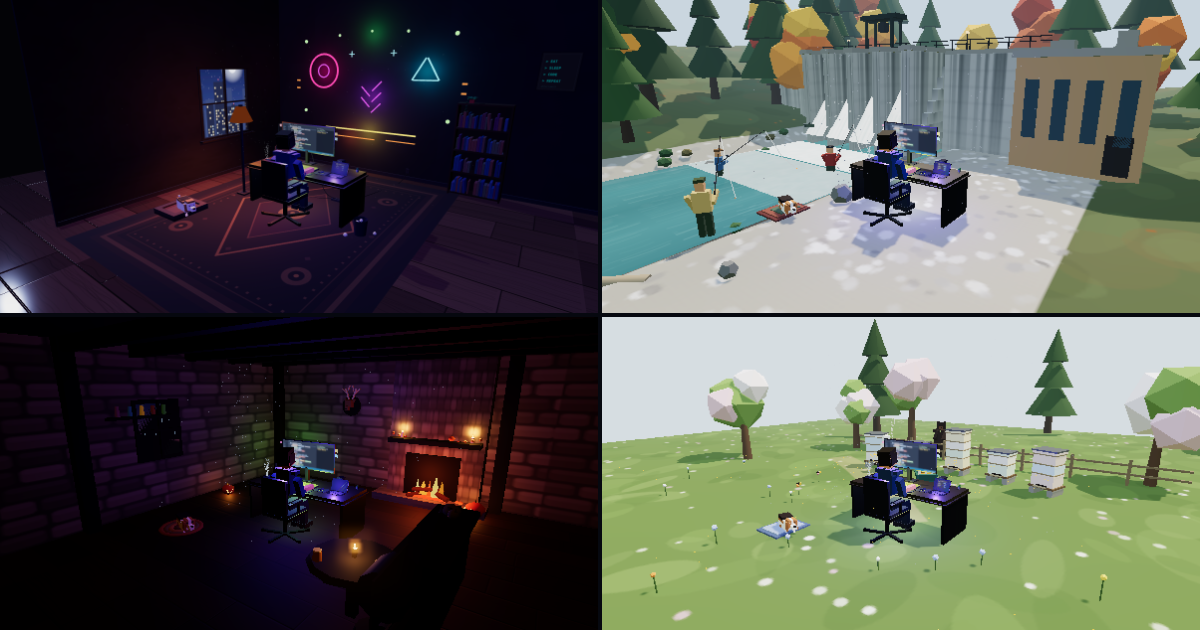
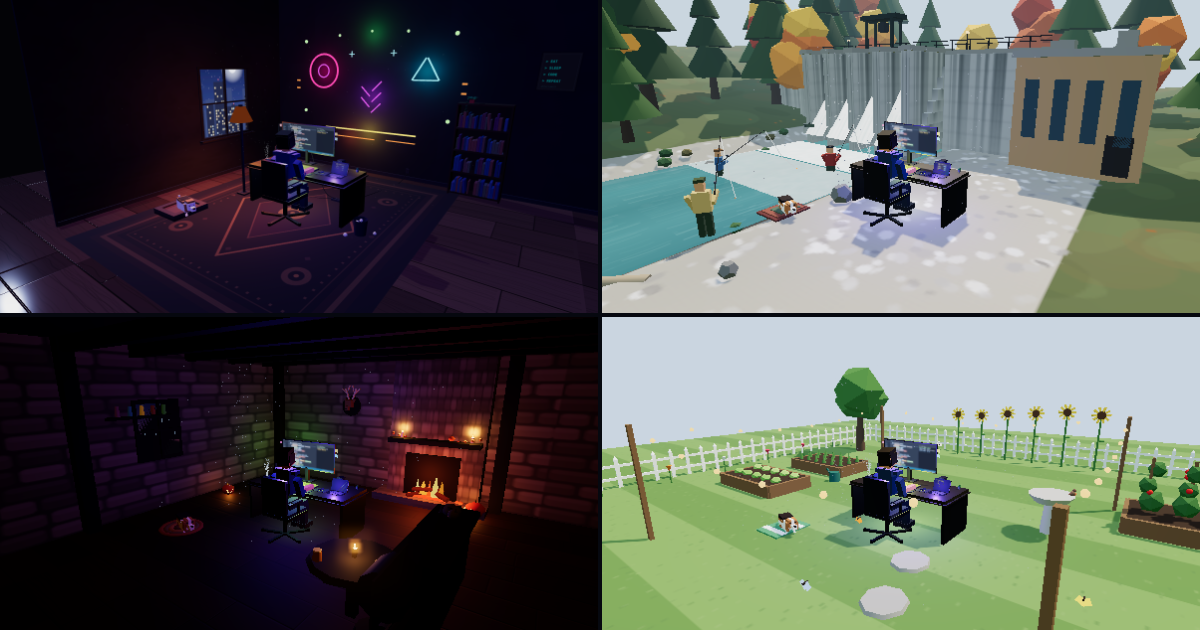
Garden critters + og collage refresh
- A robin perches on the birdbath rim, scanning the yard and dipping
  to drink every few seconds, tail flicking
- A rabbit runs a lettuce heist on a loop: creeps from a fence hole,
  nibbles at the beds — and Clark runs security, breaking off whatever
  he's doing to close in. Get close enough and the rabbit bolts for
  the hole ears-back while Clark does his proud wiggle (hearts, aroo)
- If Clark's asleep, the rabbit feasts in peace
- og collage: garden replaces the apiary tile

diff --git a/index.html b/index.html
@@ -5293,6 +5293,66 @@
             });
         }
 
+        // ── A robin on the birdbath rim ──
+        const robinGrp = new THREE.Group();
+        robinGrp.position.set(2.64, 0.76, -1.2);
+        robinGrp.rotation.y = -0.8;
+        addTarget.add(robinGrp);
+        const robinBody = new THREE.Mesh(new THREE.SphereGeometry(0.05, 8, 6), lm(0x7a5a44, 0, 0, 0.9));
+        robinBody.scale.set(0.85, 0.9, 1.15);
+        robinBody.position.y = 0.04;
+        robinBody.castShadow = true;
+        robinGrp.add(robinBody);
+        const robinBreast = new THREE.Mesh(new THREE.SphereGeometry(0.035, 8, 6), lm(0xd85a30, 0, 0, 0.85));
+        robinBreast.position.set(0, 0.025, -0.03);
+        robinGrp.add(robinBreast);
+        const robinHead = new THREE.Group();
+        robinHead.position.set(0, 0.085, -0.03);
+        robinGrp.add(robinHead);
+        const rhBall = new THREE.Mesh(new THREE.SphereGeometry(0.032, 8, 6), lm(0x6a4c3a, 0, 0, 0.9));
+        robinHead.add(rhBall);
+        const beak2 = new THREE.Mesh(new THREE.ConeGeometry(0.01, 0.03, 5), lm(0xe8b028, 0, 0, 0.7));
+        beak2.rotation.x = -Math.PI / 2;
+        beak2.position.set(0, 0, -0.04);
+        robinHead.add(beak2);
+        const robinTail = new THREE.Mesh(new THREE.BoxGeometry(0.025, 0.01, 0.06), lm(0x6a4c3a, 0, 0, 0.9));
+        robinTail.position.set(0, 0.045, 0.07);
+        robinTail.rotation.x = 0.35;
+        robinGrp.add(robinTail);
+
+        // ── A rabbit with designs on the lettuce ──
+        const rabbit = new THREE.Group();
+        rabbit.visible = false;
+        addTarget.add(rabbit);
+        const rbFur = lm(0x9a8a76, 0, 0, 0.95);
+        const rbBody = new THREE.Mesh(new THREE.SphereGeometry(0.11, 9, 7), rbFur);
+        rbBody.scale.set(0.85, 0.8, 1.1);
+        rbBody.position.y = 0.1;
+        rbBody.castShadow = true;
+        rabbit.add(rbBody);
+        const rbHead = new THREE.Group();
+        rbHead.position.set(0, 0.17, -0.1);
+        rabbit.add(rbHead);
+        const rbSkull = new THREE.Mesh(new THREE.SphereGeometry(0.06, 8, 6), rbFur);
+        rbSkull.castShadow = true;
+        rbHead.add(rbSkull);
+        const rbNose = new THREE.Mesh(new THREE.BoxGeometry(0.02, 0.015, 0.015), lm(0xc08a8a, 0, 0, 0.7));
+        rbNose.position.set(0, -0.01, -0.06);
+        rbHead.add(rbNose);
+        const rbEarL = new THREE.Mesh(new THREE.BoxGeometry(0.025, 0.13, 0.035), rbFur);
+        rbEarL.position.set(-0.025, 0.11, 0.01);
+        rbEarL.rotation.z = -0.12;
+        rbHead.add(rbEarL);
+        const rbEarR = rbEarL.clone();
+        rbEarR.position.x = 0.025;
+        rbEarR.rotation.z = 0.12;
+        rbHead.add(rbEarR);
+        const rbTail = new THREE.Mesh(new THREE.SphereGeometry(0.04, 7, 6), lm(0xece8dc, 0, 0, 0.95));
+        rbTail.position.set(0, 0.1, 0.12);
+        rabbit.add(rbTail);
+        const RB_HOLE = [-7.2, 1.6], RB_FEAST = [-5.0, 0.55];
+        const rbState = { mode: 'hidden', t0: 0, next: 8, pos: [RB_HOLE[0], RB_HOLE[1]] };
+
         // ── Sun + sky (time: 0 lantern-lit dusk → 1 bright noon) ──
         const gdSun = new THREE.DirectionalLight(0xfff0d0, 0);
         gdSun.castShadow = true;
@@ -6653,6 +6713,75 @@
 
                 // birdsong, brightest in the middle of the day
                 if (soundOn && audioCtx && Math.random() < dt * (0.06 + td * 0.28)) chirp();
+
+                // the robin scans the yard and dips to drink
+                robinGrp.rotation.y = -0.8 + Math.sin(t * 0.5) * 0.7 + Math.sin(t * 2.3) * 0.1;
+                const sip = (t % 5.5) < 0.9 ? Math.sin(((t % 5.5) / 0.9) * Math.PI) : 0;
+                robinHead.rotation.x = sip * 0.85 + Math.sin(t * 6) * 0.03;
+                robinTail.rotation.x = 0.35 + sip * 0.4;
+
+                // the rabbit runs its lettuce heist; Clark runs security
+                const dogNear = Math.hypot(dogState.pos[0] - rbState.pos[0], dogState.pos[1] - rbState.pos[1]);
+                if (rbState.mode === 'hidden') {
+                    rabbit.visible = false;
+                    if (t > rbState.next && dogNear > 3) {
+                        rbState.mode = 'creep';
+                        rbState.t0 = t;
+                        rbState.pos = [RB_HOLE[0], RB_HOLE[1]];
+                        rabbit.visible = true;
+                    }
+                } else if (rbState.mode === 'creep') {
+                    const k = Math.min(1, (t - rbState.t0) / 7);
+                    rbState.pos[0] = RB_HOLE[0] + (RB_FEAST[0] - RB_HOLE[0]) * k;
+                    rbState.pos[1] = RB_HOLE[1] + (RB_FEAST[1] - RB_HOLE[1]) * k;
+                    if (k >= 1) { rbState.mode = 'nibble'; rbState.t0 = t; }
+                } else if (rbState.mode === 'nibble') {
+                    // Clark clocks the intruder and closes in
+                    if (dogState.mode !== 'inBed') {
+                        if (dogState.mode !== 'walking') dogState.mode = 'walking';
+                        dogState.walkUntil = Math.max(dogState.walkUntil, t + 4);
+                        const ddx = rbState.pos[0] - dogState.pos[0];
+                        const ddz = rbState.pos[1] - dogState.pos[1];
+                        const dl = Math.hypot(ddx, ddz);
+                        if (dl > 0.05) {
+                            dogState.pos[0] += (ddx / dl) * 1.1 * dt;
+                            dogState.pos[1] += (ddz / dl) * 1.1 * dt;
+                            dogState.facing = Math.atan2(ddx, ddz);
+                        }
+                    }
+                    if (dogNear < 1.0 || t - rbState.t0 > 14) {
+                        rbState.mode = 'flee';
+                        rbState.t0 = t;
+                        if (dogNear < 1.0) {   // got 'em — proud wiggle, hearts and all
+                            petStart = t;
+                            petUntil = t + 2.0;
+                            if (soundOn && audioCtx) aroo();
+                        }
+                    }
+                } else if (rbState.mode === 'flee') {
+                    const fdx = RB_HOLE[0] - rbState.pos[0];
+                    const fdz = RB_HOLE[1] - rbState.pos[1];
+                    const fl2 = Math.hypot(fdx, fdz);
+                    if (fl2 < 0.15) {
+                        rbState.mode = 'hidden';
+                        rbState.next = t + 16 + Math.random() * 18;
+                    } else {
+                        rbState.pos[0] += (fdx / fl2) * 3.0 * dt;
+                        rbState.pos[1] += (fdz / fl2) * 3.0 * dt;
+                    }
+                }
+                if (rabbit.visible) {
+                    rabbit.position.set(rbState.pos[0], 0, rbState.pos[1]);
+                    const moving2 = rbState.mode === 'creep' || rbState.mode === 'flee';
+                    const hopF = rbState.mode === 'flee' ? 11 : 5;
+                    rabbit.position.y = moving2 ? Math.abs(Math.sin(t * hopF)) * (rbState.mode === 'flee' ? 0.12 : 0.06) : 0;
+                    rabbit.rotation.y = rbState.mode === 'flee'
+                        ? Math.atan2(RB_HOLE[0] - rbState.pos[0], RB_HOLE[1] - rbState.pos[1])
+                        : Math.atan2(RB_FEAST[0] - RB_HOLE[0], RB_FEAST[1] - RB_HOLE[1]);
+                    rbHead.rotation.x = rbState.mode === 'nibble' ? 0.7 + Math.sin(t * 7) * 0.15 : 0;
+                    rbEarL.rotation.x = rbState.mode === 'flee' ? -0.7 : Math.sin(t * 3) * 0.08;
+                    rbEarR.rotation.x = rbState.mode === 'flee' ? -0.7 : Math.sin(t * 3 + 0.5) * 0.08;
+                }
             }
 
             // Spillway rush fades in only while the river is on screen
